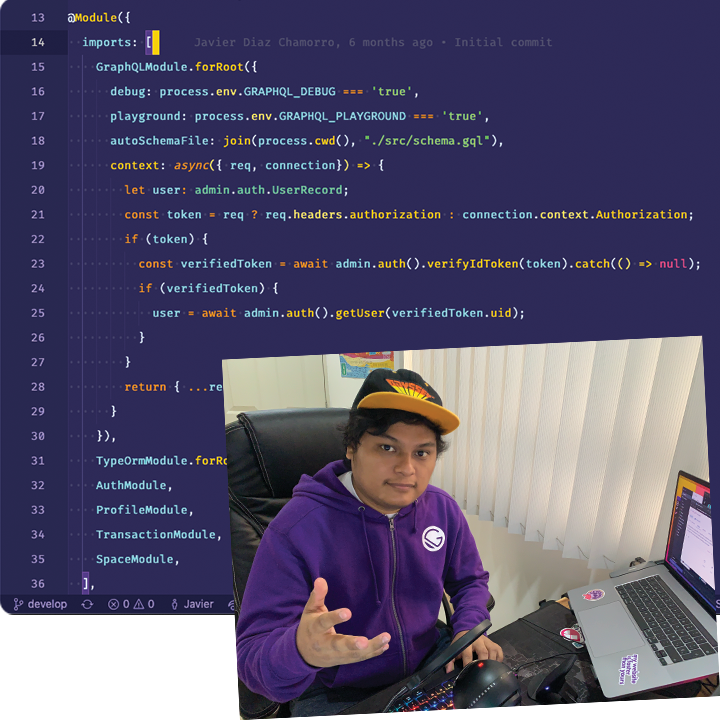
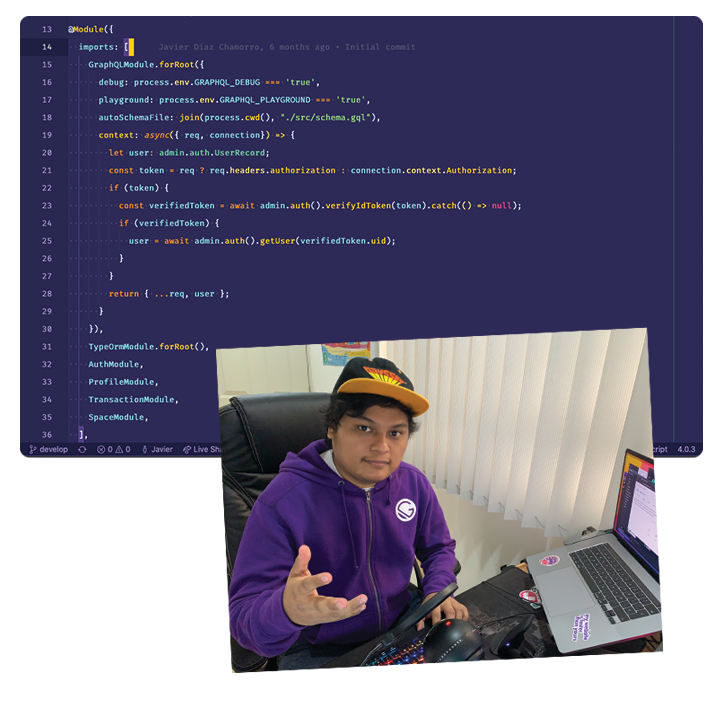
fix: fixed image container

diff --git a/src/pages/index.tsx b/src/pages/index.tsx
@@ -72,7 +72,7 @@ const IndexPage = () => {
             </a>
           </div>
           <div className="relative">
-            <div className="lg:absolute right-0 top-0 lg:-mt-102 lg:-mr-32">
+            <div className="lg:absolute right-0 top-0 lg:-mt-96 lg:-mr-32">
               <div className="hidden lg:inline-block">
                 <Image
                   width={512}
